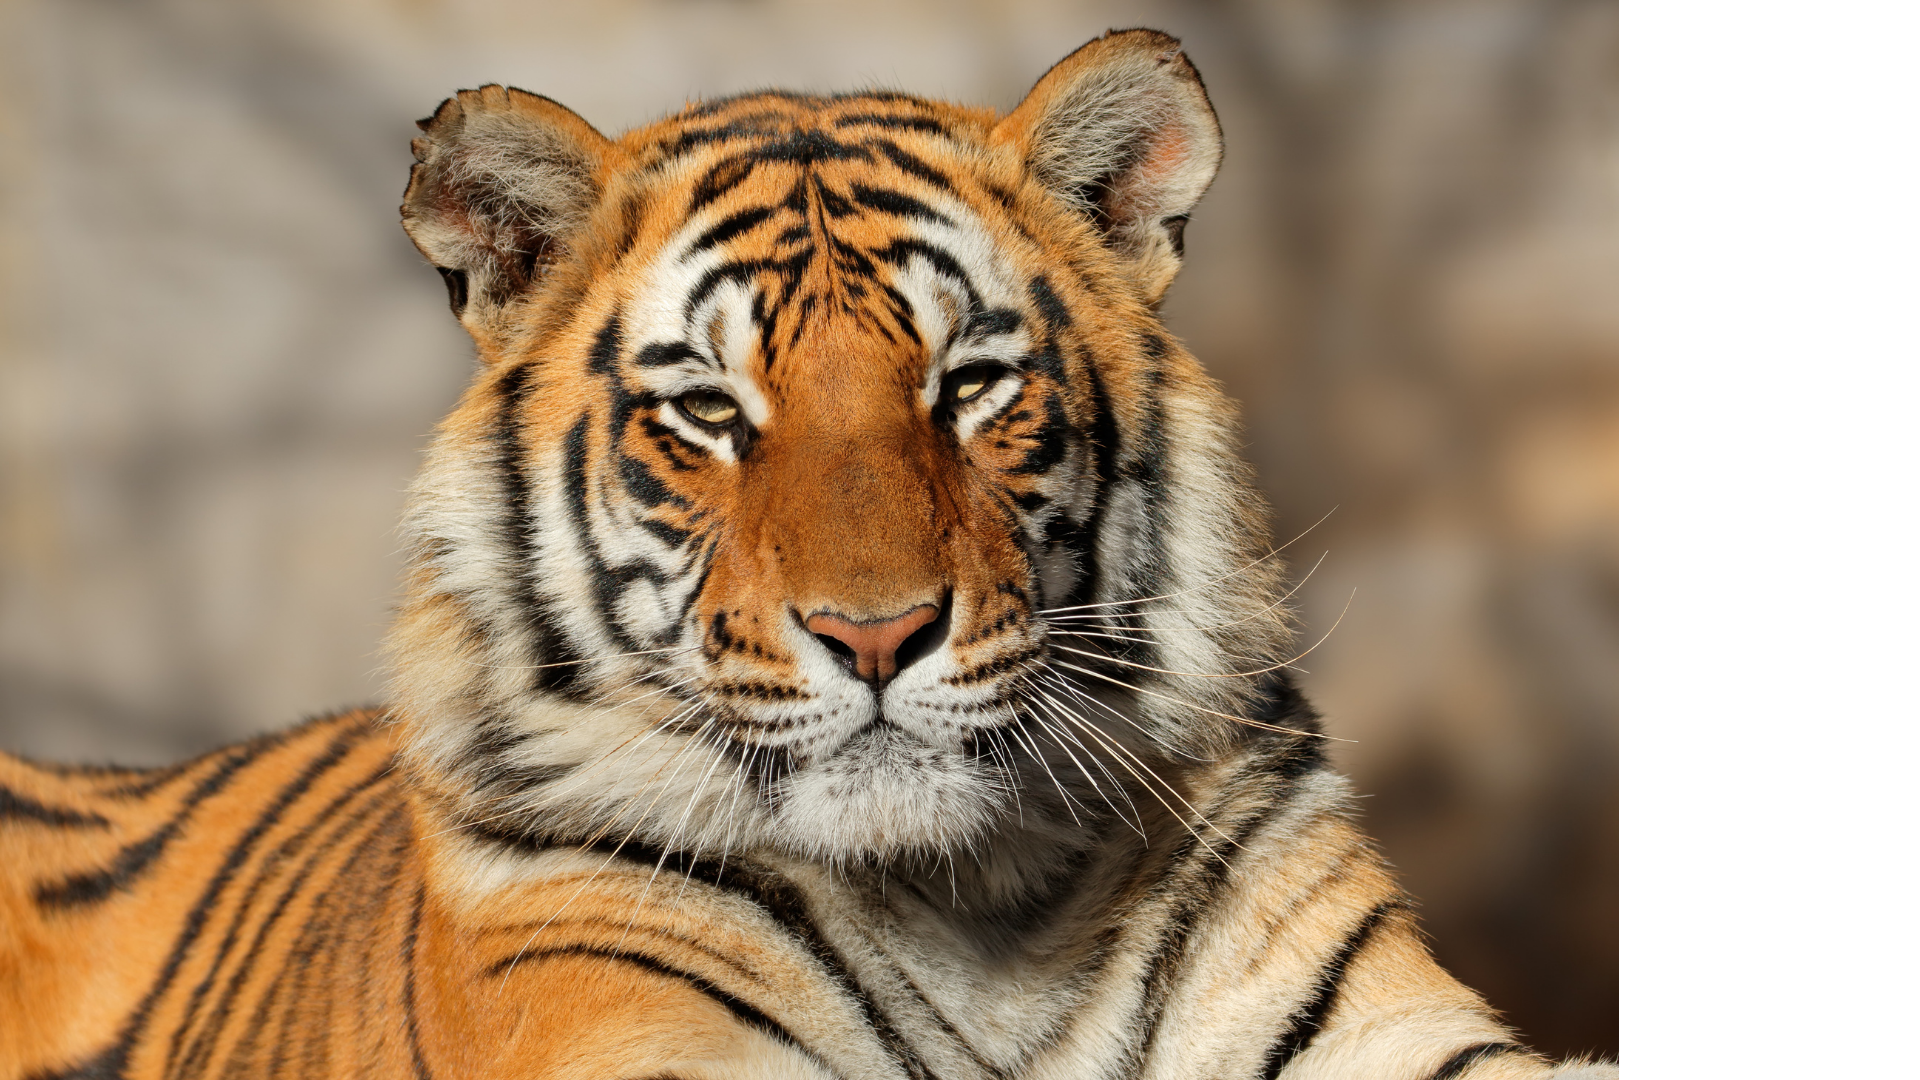
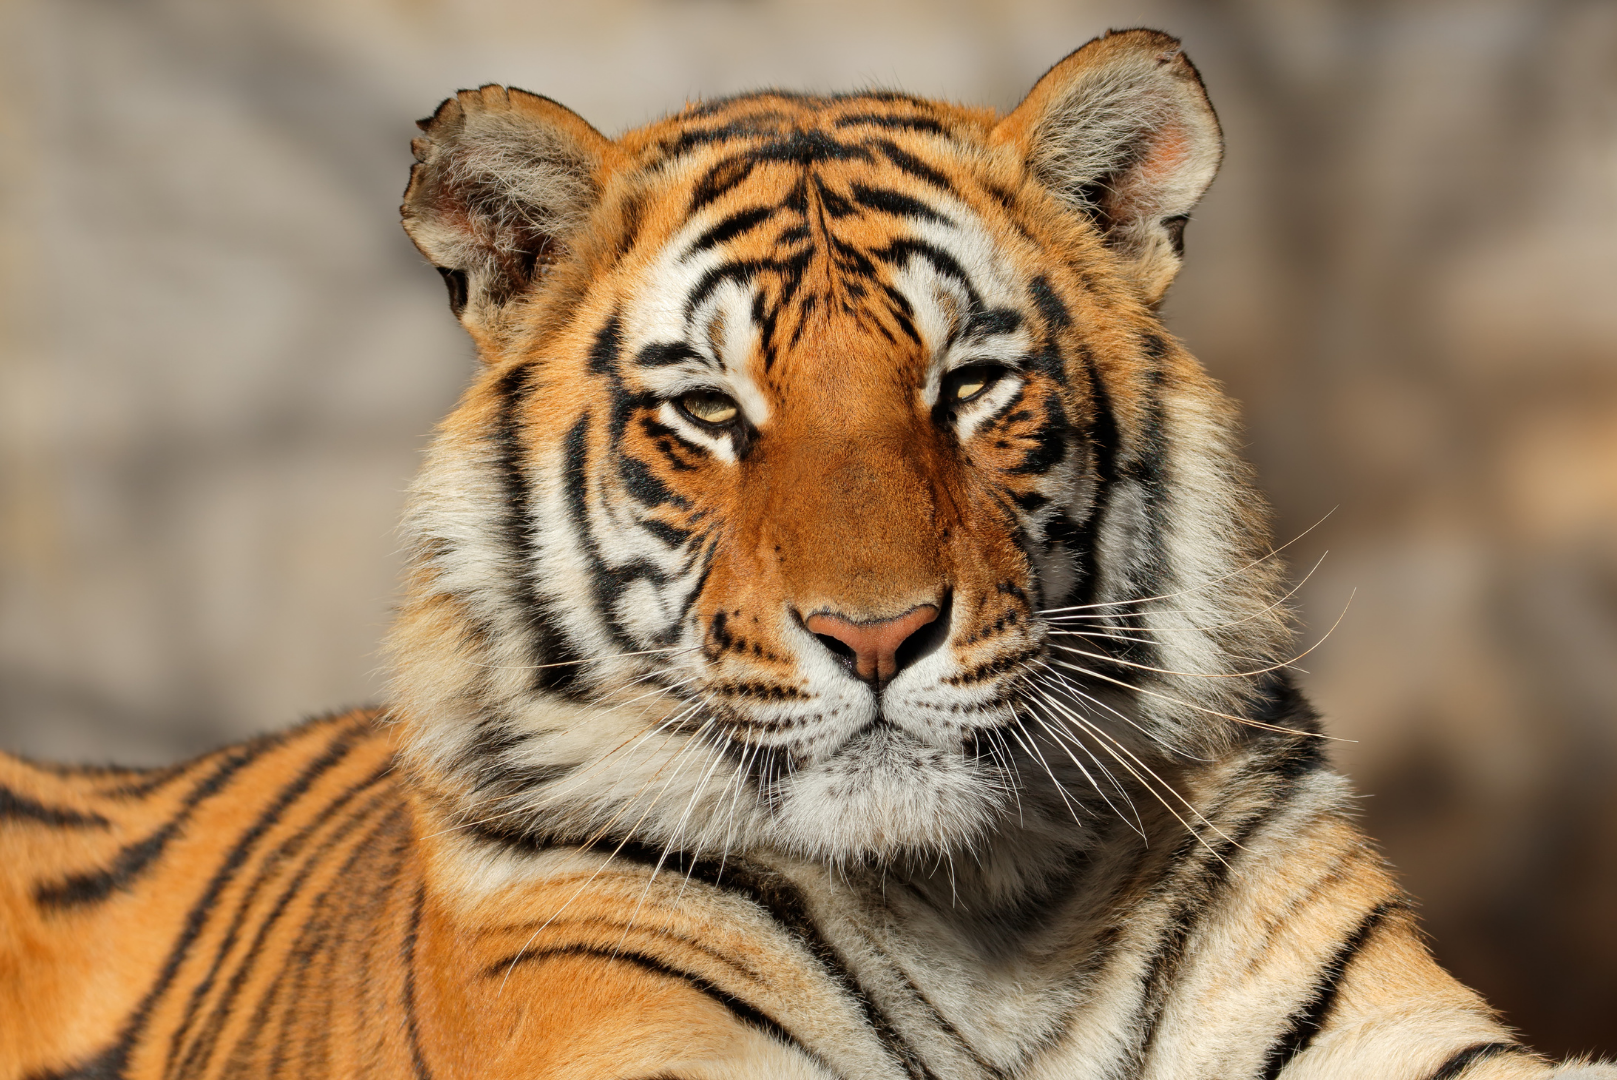
Added overlay effect on the bengal tiger

diff --git a/style.css b/style.css
@@ -35,7 +35,7 @@
   font-size: 18px;
   color: rgb(49, 48, 48);
   text-decoration: none;
-  font-family: "Questrial", sans-serif;
+  font-family: "Quicksand", sans-serif;
   font-weight: bolder;
 }
 
@@ -90,7 +90,7 @@ a:hover {
   border-radius: 1px;
   padding: 10px 50px;
   font-size: 22px;
-  font-family: "Questrial", sans-serif;
+  font-family: "Quicksand", sans-serif;
   color: rgb(255, 255, 255);
   transition: 0.3s;
   z-index: 3;
@@ -118,7 +118,7 @@ a:hover {
 
 .mission {
   font-size: 20px;
-  font-family: "Questrial", sans-serif;
+  font-family: "Quicksand", sans-serif;
   color: rgb(65, 63, 63);
   text-align: center;
   flex: 1;
@@ -147,13 +147,15 @@ a:hover {
 .description {
   flex: 1;
   font-size: 19px;
-  font-family: "Questrial", sans-serif;
+  font-family: "Quicksand", sans-serif;
   color: rgb(65, 63, 63);
   margin: 0px 40px 200px 80px;
   text-align: center;
+  font-weight: bolder;
 }
 
 span {
+  font-size: 22px;
   color: rgb(201, 81, 60);
   font-weight: bolder;
 }
@@ -174,9 +176,8 @@ span {
 }
 
 .bengal {
-  width: 700px;
-  height: 425px;
-  border-radius: 10px;
+  width: 650px;
+  height: 434px;
 }
 
 .box2 {
@@ -198,11 +199,11 @@ span {
 }
 
 .box1 {
-  margin: 0 -100px 0 10px;
+  margin: 0 10px 0 0px;
 }
 
 .box2 {
-  margin: 0 -20px 0 0px;
+  margin: 0 10px 0 0px;
 }
 
 .buttoncontainer {
@@ -226,4 +227,40 @@ span {
 .readmore:hover {
   background-color: rgba(170, 247, 97, 0.925);
   color: white;
+}
+
+.bengaltiger {
+  position: relative;
+  width: 650px;
+}
+
+.bengal {
+  display: block;
+  width: 100%;
+}
+
+.overlay {
+  position: absolute;
+  top: 0;
+  left: 0;
+  width: 100%;
+  height: 100%;
+  background: rgba(0, 0, 0, 0.6);
+  color: #ffffff;
+  font-family: "Quicksand", sans-serif;
+  display: flex;
+  flex-direction: column;
+  align-items: center;
+  justify-content: center;
+  opacity: 0;
+  transition: opacity 0.25s;
+}
+
+.overlay:hover {
+  opacity: 1;
+}
+
+.imageoverlay {
+  font-size: 2em;
+  font-weight: bold;
 }

diff --git a/index.html b/index.html
@@ -133,12 +133,18 @@
 
       <div class="wildcontainer">
         <div class="box1">
-          <img
-            class="bengal"
-            src="/Pictures/bengal tiger.png"
-            alt="image of bengal tiger"
-          />
+          <div class="bengaltiger">
+            <img
+              class="bengal"
+              src="/Pictures/bengal tiger.png"
+              alt="image of bengal tiger"
+            />
+            <div class="overlay">
+              <div class="imageoverlay">Bengal Tiger</div>
+            </div>
+          </div>
         </div>
+
         <div class="box2">
           <div>
             <img class="whale" src="/Pictures/whale.png" alt="image of whale" />
